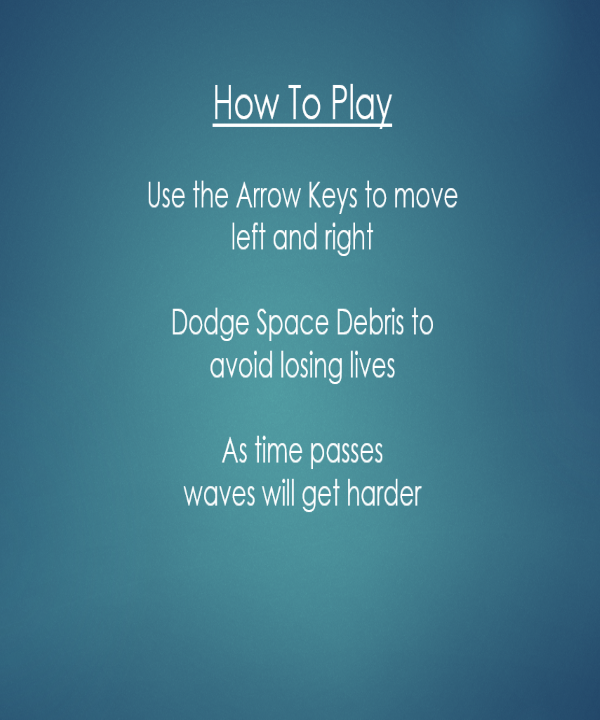
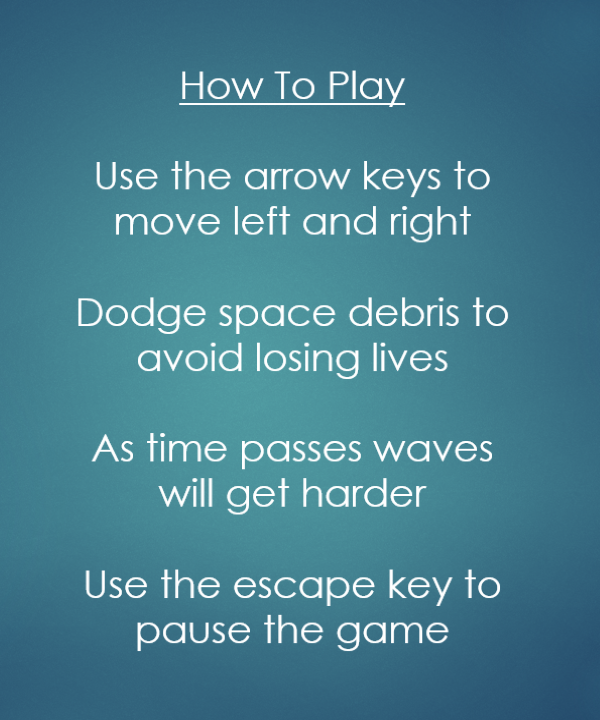
Final Release

diff --git a/gameOver.py b/gameOver.py
@@ -1,84 +1,148 @@
 import pygame
 import images
+import random
+from menu import b_left, b_length, b_right
 
 # initializing and setting text fonts
 pygame.font.init()
 font = pygame.font.SysFont("calibri", 100, bold=True, italic=True)
-font2 = pygame.font.SysFont("calibri", 55, bold=True)
-font3 = pygame.font.SysFont("calibri", 45, bold=True)
+font2 = pygame.font.SysFont("calibri", 50)
+font3 = pygame.font.SysFont("calibri", 23, bold=True)
 w = pygame.display.set_mode((600, 720))
 # setting text variables
 g, c = font.render("Game Over", True, (255, 255, 255)), font2.render("Continue", True, (255, 255, 255))
 ng, ex = font2.render("New Game", True, (255, 255, 255)), font2.render("Exit", True, (255, 255, 255))
+sf, ba = font2.render("Space Debris Fact", True, (255, 255, 255)), font2.render("Back", True, (255, 255, 255))
+nf = font2.render("New Fact", True, (255, 255, 255))
 w.blit(images.bg, (0, 0))
 
+s_facts = "space_facts.txt"
+s_list = []
+try:        # This is using with to read the text file safely into the patient list
+    with open(s_facts, 'r') as hand:
+        a = hand.read().split("\n\n")
+        for x in a:
+            s_list.append(x)
+except FileNotFoundError:   # If this error occurs it will be caught
+    print("File cannot be opened:", s_facts)
+    exit()
 
-def fade(width, height):  # fades the screen with red
+
+def fade(width, height):        # fades the screen with red
     fade = pygame.Surface((width, height))
-    fade.fill((255, 0, 0))  # sets fade color to red
-    for alpha in range(0, 100):  # for loop for alpha (opacity)
-        fade.set_alpha(alpha)  # sets alpha
-        w.blit(images.bg, (0, 0))  # uses the fade specific refresh
-        w.blit(fade, (0, 0))  # sets the fade onto the display
+    fade.fill((255, 0, 0))      # sets fade color to red
+    for alpha in range(0, 100):     # for loop for alpha (opacity)
+        fade.set_alpha(alpha)       # sets alpha
+        w.blit(images.bg, (0, 0))       # uses the fade specific refresh
+        w.blit(fade, (0, 0))        # sets the fade onto the display
         pygame.display.update()
-        pygame.time.delay(3)  # delays fade by 3 ms
+        pygame.time.delay(3)        # delays fade by 3 ms
         pygame.display.update()
 
 
-def opac():  # sets the opacity from the end of the fade as a background variable in the refreshes
+def opac():     # sets the opacity from the end of the fade as a background variable in the refreshes
     o = pygame.Surface((600, 720))
-    o.fill((255, 0, 0))  # sets color to red
-    o.set_alpha(100)  # sets opacity to 100 like the fade
-    w.blit(o, (0, 0))  # sets the fade onto the display
+    o.fill((255, 0, 0))     # sets color to red
+    o.set_alpha(100)        # sets opacity to 100 like the fade
+    w.blit(o, (0, 0))       # sets the fade onto the display
 
 
-def mouse():  # tracks the mouse position to update the color of the rectangles behind yes and no
+def mouse():    # tracks the mouse position to update the color of the rectangles behind yes and no
     m = pygame.mouse.get_pos()
 
-    if 195 <= m[0] <= (195 + c.get_width()) and 260 <= m[1] <= 330:  # looks for mouse in this position on display
-        pygame.draw.rect(w, (170, 170, 170), [((600 - c.get_width()) / 2 - 5), 260, 220, 50])
+    if b_left(c) <= m[0] <= b_right(c) and 260 <= m[1] <= 305:       # looks for mouse in this position on display
+        pygame.draw.rect(w, (170, 170, 170), [b_left(c), 260, b_length(c), 45])
     else:
-        pygame.draw.rect(w, (100, 100, 100), [((600 - c.get_width()) / 2 - 5), 260, 220, 50])
-
-    if 175 <= m[0] <= (175 + ng.get_width()) and 340 <= m[1] <= 410:
-        pygame.draw.rect(w, (170, 170, 170), [((600 - ng.get_width()) / 2 - 5), 340, 260, 50])
+        pygame.draw.rect(w, (100, 100, 100), [b_left(c), 260, b_length(c), 45])
+    if b_left(ng) <= m[0] <= b_right(ng) and 320 <= m[1] <= 365:
+        pygame.draw.rect(w, (170, 170, 170), [b_left(ng), 320, b_length(ng), 45])
     else:
-        pygame.draw.rect(w, (100, 100, 100), [((600 - ng.get_width()) / 2 - 5), 340, 260, 50])
-
-    if 252.5 <= m[0] <= 350.5 and 420 <= m[1] <= 490:
-        pygame.draw.rect(w, (170, 170, 170), [((600 - ex.get_width()) / 2 - 5), 420, 98, 50])
+        pygame.draw.rect(w, (100, 100, 100), [b_left(ng), 320, b_length(ng), 45])
+    if b_left(sf) <= m[0] <= b_right(sf) and 380 <= m[1] <= 425:
+        pygame.draw.rect(w, (170, 170, 170), [b_left(sf), 380, b_length(sf), 45])
     else:
-        pygame.draw.rect(w, (100, 100, 100), [((600 - ex.get_width()) / 2 - 5), 420, 98, 50])
+        pygame.draw.rect(w, (100, 100, 100), [b_left(sf), 380, b_length(sf), 45])
+    if b_left(ex) + 175 <= m[0] <= b_right(ex) + 175 and 650 <= m[1] <= 695:
+        pygame.draw.rect(w, (170, 170, 170), [b_left(ex) + 175, 650, b_length(ex), 45])
+    else:
+        pygame.draw.rect(w, (100, 100, 100), [b_left(ex) + 175, 650, b_length(ex), 45])
 
 
 def refresh():
     w.blit(images.bg, (0, 0))
     opac()
-    w.blit(g, ((600 - g.get_width()) / 2, 100))  # <- sets text on display
+    w.blit(g, (b_left(g) + 5, 100))      # <- sets text on display
     mouse()
-    w.blit(c, ((600 - c.get_width()) / 2, 260))  # <-
-    w.blit(ng, ((600 - ng.get_width()) / 2, 340))  # <-
-    w.blit(ex, ((600 - ex.get_width()) / 2, 420))  # <-
+    w.blit(c, (b_left(c) + 5, 260))      # <-
+    w.blit(ng, (b_left(ng) + 5, 320))    # <-
+    w.blit(sf, (b_left(sf) + 5, 380))    # <-
+    w.blit(ex, (b_left(ex) + 180, 650))  # <-
+
+
+def space_fact():
+    temp = s_list[random.randint(0, 15)]
+    while True:
+        m2 = pygame.mouse.get_pos()
+        for ev in pygame.event.get():
+            if ev.type == pygame.QUIT:
+                pygame.quit()
+            if ev.type == pygame.MOUSEBUTTONDOWN:
+                # if the mouse is clicked on the button the game is terminated
+                if b_left(ba) <= m2[0] <= b_right(ba) and 540 <= m2[1] <= 580:
+                    return False
+                if b_left(nf) <= m2[0] <= b_right(nf) and 490 <= m2[1] <= 530:
+                    temp = s_list[random.randint(0, 15)]
+
+        w.blit(images.bg, (0, 0))
+        opac()
+        if b_left(ba) <= m2[0] <= b_right(ba) and 540 <= m2[1] <= 580:
+            pygame.draw.rect(w, (170, 170, 170), [b_left(ba), 540, b_length(ba), 40])
+        else:
+            pygame.draw.rect(w, (100, 100, 100), [b_left(ba), 540, b_length(ba), 40])
+        if b_left(nf) <= m2[0] <= b_right(nf) and 490 <= m2[1] <= 530:
+            pygame.draw.rect(w, (170, 170, 170), [b_left(nf), 490, b_length(nf), 40])
+        else:
+            pygame.draw.rect(w, (100, 100, 100), [b_left(nf), 490, b_length(nf), 40])
+
+        w.blit(ba, (b_left(ba) + 5, 538))
+        w.blit(sf, (b_left(sf) + 5, 50))
+        w.blit(nf, (b_left(nf) + 5, 488))
+        q = str(temp).split(sep="\n")
+        q = [z.strip() for z in q]
+        for b in range(0, len(q)):
+            temp2 = font3.render(q[b], True, (255, 255, 255))
+            if b == 0:
+                w.blit(temp2, (b_left(temp2) + 5, 200))
+            elif b == 1:
+                w.blit(temp2, (b_left(temp2) + 5, 245))
+            elif b == 2:
+                w.blit(temp2, (b_left(temp2) + 5, 290))
+            elif b == 3:
+                w.blit(temp2, (b_left(temp2) + 5, 335))
+            elif b == 4:
+                w.blit(temp2, (b_left(temp2) + 5, 380))
+            elif b == 5:
+                w.blit(temp2, (b_left(temp2) + 5, 425))
+
+        pygame.display.update()
 
 
 def g_over():
-    e = True
     fade(600, 720)  # fades display to red
-    pygame.time.delay(200)  # delays pygame to allow time for the fade
-    while e:
-        pygame.time.delay(1)
+    while True:
         refresh()
         m = pygame.mouse.get_pos()
         for event in pygame.event.get():  # for loop to wait for mouse to click yes or no or exiting pygame
             if event.type == pygame.QUIT:
-                quit(True)
+                quit()
             if event.type == pygame.MOUSEBUTTONDOWN:  # checks for mouse clicked within set parameters
-                if 195 <= m[0] <= (195 + c.get_width()) and 260 <= m[1] <= 315:
+                if b_left(c) <= m[0] <= b_right(c) and 260 <= m[1] <= 305:
                     return 1
-                elif 175 <= m[0] <= (175 + ng.get_width()) and 340 <= m[1] <= 395:
+                elif b_left(ng) <= m[0] <= b_right(ng) and 320 <= m[1] <= 365:
                     return 2
-                elif 252.5 <= m[0] <= 350.5 and 420 <= m[1] <= 475:
+                elif b_left(sf) <= m[0] <= b_right(sf) and 380 <= m[1] <= 425:
+                    space_fact()
+                elif b_left(ex) + 175 <= m[0] <= b_right(ex) + 175 and 650 <= m[1] <= 695:
                     return 3
+
         pygame.display.update()
-
-

diff --git a/menu.py b/menu.py
@@ -21,6 +21,8 @@ smallFont = pygame.font.SysFont('calibri', 50)
 textExit, textStart = smallFont.render('Exit', True, white), smallFont.render('Start', True, white)
 textOption, textCredits = smallFont.render('Options', True, white), smallFont.render('Credits', True, white)
 textHTPlay, textPrevious = smallFont.render('How To Play', True, white), smallFont.render('Back', True, white)
+textContinue = smallFont.render('Cont.', True, white)
+textpaused = pygame.font.SysFont('calibri', 100, bold=True, italic=True).render('Paused', True, white)
 
 def b_left(x): return ((screenWidth - x.get_width()) / 2) - 5
 
@@ -96,6 +98,50 @@ def creds_or_htp(value):
         screen.blit(textPrevious, (b_left(textPrevious) + 5, 538))
 
         pygame.display.update()
+
+
+def pause():
+    while True:
+        # stores the (x,y) coordinates into the variable as a tuple
+        m = pygame.mouse.get_pos()
+        for ev in pygame.event.get():
+            if ev.type == pygame.QUIT:
+                quit()
+            # checks if a mouse is clicked
+            if ev.type == pygame.MOUSEBUTTONDOWN:
+                # if the mouse is clicked on the button the game is terminated
+                if b_left(textHTPlay) <= m[0] <= b_right(textHTPlay) and screenHeight / 2 - 5 <= m[1] <= \
+                        screenHeight / 2 + 42:
+                    creds_or_htp(1)
+                # if the mouse is clicked on the button the play-state is continued
+                if b_left(textContinue) <= m[0] <= b_right(textContinue) and screenHeight / 2 - 60 <= m[1] <= \
+                        screenHeight / 2 - 20:
+                    return False
+                # if the mouse is clicked on the credits screen is launched
+                if b_left(textCredits) <= m[0] <= b_right(textCredits) and screenHeight / 2 + 55 <= m[1] <= \
+                        screenHeight / 2 + 87:
+                    creds_or_htp(2)
+                if b_left(textExit) + 175 <= m[0] <= b_right(textExit) + 175 and \
+                        screenHeight - 70 <= m[1] <= screenHeight - 30:
+                    quit()
+
+        # fills the screen with a color
+        opac()
+        mouse_movement()
+        # superimposing the text onto our button
+        screen.blit(textpaused, (b_left(textpaused) + 5, screenHeight / 2 - 262))
+        screen.blit(textHTPlay, (b_left(textHTPlay) + 5, screenHeight / 2 - 6))
+        screen.blit(textContinue, (b_left(textContinue) + 5, screenHeight / 2 - 62))
+        screen.blit(textCredits, (b_left(textCredits) + 5, screenHeight / 2 + 53))
+        screen.blit(textExit, (b_left(textExit) + 180, screenHeight - 72))
+
+        # updates the frames of the game
+        pygame.display.update()
+
+def opac():  # sets the opacity from the end of the fade as a background variable in the refreshes
+    o = pygame.Surface((600, 720))
+    o.set_alpha(100)  # sets opacity to 100 like the fade
+    screen.blit(o, (0, 0))  # sets the fade onto the display
 
 
 def menu():

diff --git a/main.py b/main.py
@@ -22,6 +22,7 @@ def main():
     lives = 3  # current amount of lives player has
     font = pygame.font.SysFont("calibri", 50, bold=True)  # Create a pygame font from system font resources
     player_vel = 5  # velocity of player ship
+    num_line = 4
 
     player.Player = player.Player(250, 595)  # Position on window to place player starting position
 
@@ -49,15 +50,16 @@ def main():
         if len(obs) == 0:
             level += 1
             obs_vel += 0.25
-            num_line = 9
+            if level % 4 == 0:
+                num_line = int(num_line * 1.25)
             if obs_vel == 8:
                 obs_vel = 8
             for i in range(num_line):
-                if len(obs) != 0 or len(obs) != 1:
-                    obstacle = satalite.Obstacle(r_x[i], r_y[i],
+                if i % 2 != 0:
+                    obstacle = satalite.Obstacle(random.randrange(50, 290), random.randrange(-700, -50),
                                                  random.choice(['satalite1', "satalite2", "shuttle"]))
                 else:
-                    obstacle = satalite.Obstacle(random.randrange(50, width - 100), random.randrange(0, 1),
+                    obstacle = satalite.Obstacle(random.randrange(310, 550), random.randrange(-700, -50),
                                                  random.choice(['satalite1', "satalite2", "shuttle"]))
                 obs.append(obstacle)
                 obs_cor.append(obstacle.x)
